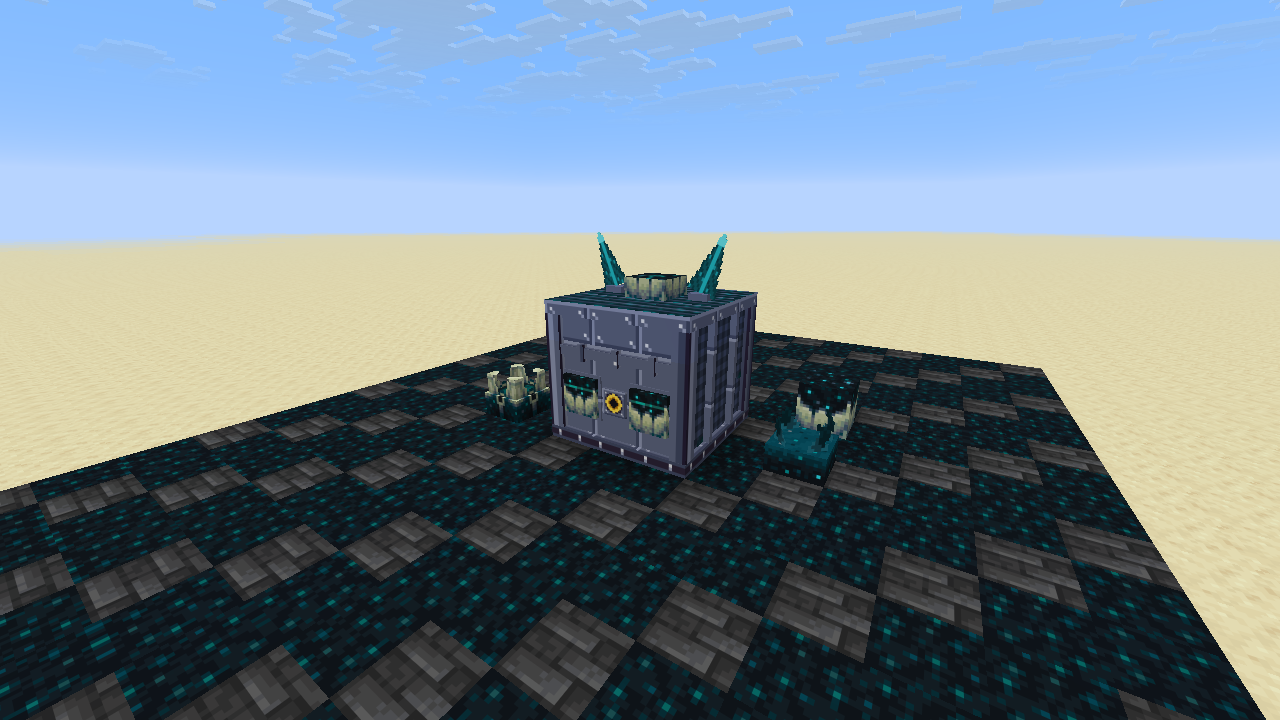
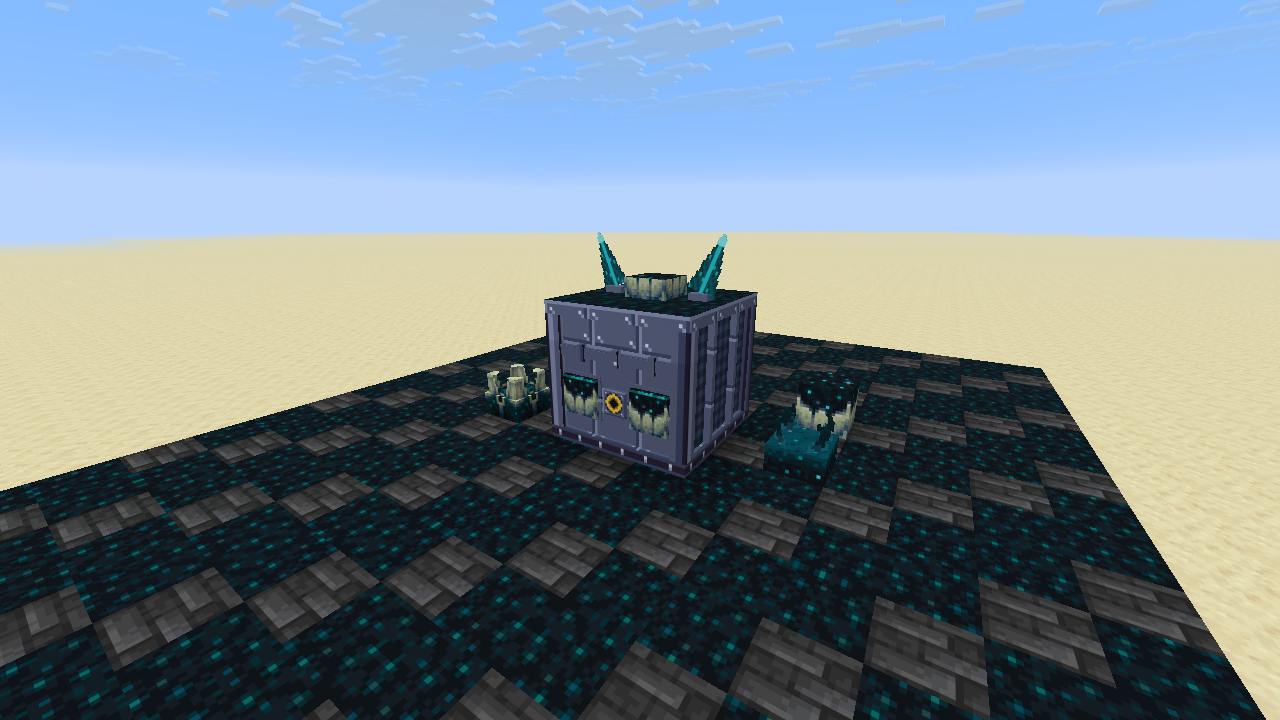
Echo Chamber: no square on the dish, and a sculk roof
The little square in the middle of the front dish is gone; its glowing heart is now
part of the dish's texture, breathing with the wave. The whole roof is covered in
vanilla sculk instead of the grate.

Claude-Session: https://claude.ai/code/session_012iurxobutw9xMP3SqHHLFE

diff --git a/tools/sheep/generate_textures.py b/tools/sheep/generate_textures.py
@@ -4181,7 +4181,7 @@ def generate_thermal_reaction_chamber_gui():
 # ---------------------------------------------------------------------------
 # Echo Chamber (WIP preview): a 3x3x3 machine in the blue-steel casing, lined with sculk. A big resonator dish on the
 # front whose rings pulse outward from a glowing heart, egg-crate sound-dampening foam on the side walls with sculk
-# creeping over some of it, a power port and two bays of sculk catalysts at the back, and on the roof a catalyst dome
+# creeping over some of it, a power port and two bays of sculk catalysts at the back, and a sculk-covered roof with a catalyst dome
 # between two big sculk fronds, the Warden sheep's "ears". The model is built by generate_echo_chamber_model.py; these
 # are its textures. Wall textures tile, one per block face.
 # ---------------------------------------------------------------------------
@@ -4245,6 +4245,15 @@ def _echo_dish(f, frames):
             elif d > 0.9:
                 c = mix(c, SCULK[3], (d - 0.9) / 0.1 * 0.6)
             img.putpixel((x, y), c)
+    # The glowing heart in the middle, breathing in and out with the wave.
+    glow = 0.5 + 0.5 * math.cos(2 * math.pi * phase)
+    for y in range(32):
+        for x in range(32):
+            r = math.hypot(x - 15.5, y - 15.5)
+            if r < 3.6:
+                img.putpixel((x, y), mix(SCULK[4], SCULK[5], max(0.0, 1 - r / 3.6) * (0.4 + 0.6 * glow)))
+            elif r < 4.6:
+                img.putpixel((x, y), mix(SCULK[2], SCULK[3], glow))
     for a in range(0, 360, 6):  # the rim
         x, y = 15.5 + 15.2 * math.cos(math.radians(a)), 15.5 + 15.2 * math.sin(math.radians(a))
         img.putpixel((int(round(x)), int(round(y))), CARTOON["S"])
@@ -4265,19 +4274,6 @@ def generate_echo_chamber():
         patched.save(out(base + "foam_sculk_%d.png" % i))
 
     _echo_animated(base, "dish", 16, 2, lambda f: _echo_dish(f, 16))
-
-    def heart(f):
-        img = Image.new("RGBA", (16, 16), SCULK[1])
-        glow = 0.5 + 0.5 * math.sin(2 * math.pi * f / 8)
-        for y in range(16):
-            for x in range(16):
-                r = math.hypot(x - 7.5, y - 7.5)
-                if r < 7.5:
-                    img.putpixel((x, y), mix(SCULK[3], SCULK[5], max(0.0, 1 - r / 7.5) * (0.5 + 0.5 * glow)))
-                if r >= 6.8:
-                    img.putpixel((x, y), CARTOON["O"])
-        return img
-    _echo_animated(base, "heart", 8, 3, heart)
 
     # Casing plate: plain metal panels with a seam round each block and rivets in the corners.
     plate = Image.new("RGBA", (16, 16), CARTOON["M"])
@@ -4310,19 +4306,6 @@ def generate_echo_chamber():
                 c = CARTOON["B"] if y == 13 else CARTOON["b"]
             band.putpixel((x, y), c)
     band.save(out(base + "band.png"))
-
-    # Roof: sculk under a grate of casing bars, glowing where vibrations have reached it.
-    grate = Image.new("RGBA", (16, 16))
-    rnd = random.Random(11)
-    for y in range(16):
-        for x in range(16):
-            c = SCULK[0] if (x + y) % 2 else SCULK[1]
-            if rnd.random() < 0.08:
-                c = SCULK[3]
-            if y % 4 == 0:
-                c = CARTOON["S"] if y % 8 else CARTOON["M"]
-            grate.putpixel((x, y), c)
-    grate.save(out(base + "grate.png"))
 
     # Power port: a big yellow ring on a casing plate.
     port = plate.copy()

diff --git a/tools/sheep/generate_echo_chamber_model.py b/tools/sheep/generate_echo_chamber_model.py
@@ -15,10 +15,11 @@ import os
 ROOT = os.path.join(os.path.dirname(__file__), "..", "..", "src", "main", "resources", "assets", "barelyfunctionalcontraptions")
 NS = "barelyfunctionalcontraptions"
 TEX = {name: f"{NS}:block/echo_chamber/{name}" for name in (
-    "band", "bottom", "dish", "ear", "foam", "foam_sculk_0", "foam_sculk_1", "foam_sculk_2", "grate", "heart", "pillar",
-    "plate", "port", "trim")}
+    "band", "bottom", "dish", "ear", "foam", "foam_sculk_0", "foam_sculk_1", "foam_sculk_2", "pillar", "plate", "port",
+    "trim")}
 TEX["catalyst_side"] = "minecraft:block/sculk_catalyst_side_bloom"
 TEX["catalyst_top"] = "minecraft:block/sculk_catalyst_top_bloom"
+TEX["sculk"] = "minecraft:block/sculk"  # the whole roof
 TEX["particle"] = TEX["plate"]
 
 SIDES = ("north", "south", "east", "west")
@@ -95,7 +96,7 @@ def faces(tex, which=ALL, **overrides):
 # ---- The machine ----
 # Plinth and roof band: the dark bolted rail (the bottom rows of "band").
 box([0, 0, 0], [48, 4, 48], faces("band", SIDES, up="plate", down="bottom"))
-box([0, 40, 0], [48, 44, 48], faces("band", SIDES, up="grate", down="plate"), {"y": (28, 16)})
+box([0, 40, 0], [48, 44, 48], faces("band", SIDES, up="sculk", down="plate"), {"y": (28, 16)})
 # Corner pillars.
 for x0 in (0, 43):
     for z0 in (0, 43):
@@ -115,11 +116,10 @@ for x0, x1 in ((0, 2), (46, 48)):
     for z in (15, 31):
         box([x0, 4, z], [x1, 40, z + 2], faces("trim", ("north", "south", "east", "west")))
 
-# Front: the resonator dish, sunk in a bezel, with its glowing heart in the middle.
+# Front: the resonator dish, sunk in a bezel; its glowing heart is part of its texture.
 for fr, to in (([6, 38, 0], [42, 40, 2]), ([6, 4, 0], [42, 6, 2]), ([6, 6, 0], [8, 38, 2]), ([40, 6, 0], [42, 38, 2])):
     box(fr, to, faces("trim", ("north", "east", "west", "up", "down")))
 box([8, 6, 1], [40, 38, 2], {"north": "dish"}, {"x": (8, 32), "y": (6, 32)})
-box([20, 18, 0], [28, 26, 1], faces("trim", ("east", "west", "up", "down"), north="heart"), {"x": (20, 8), "y": (18, 8)})
 
 # Back: a power port between two bays of sculk catalysts plugged into the wall, and a conduit across above them.
 box([20, 12, 46], [28, 20, 47], faces("trim", ("east", "west", "up", "down"), south="port"), {"x": (20, 8), "y": (12, 8)})
@@ -131,7 +131,7 @@ box([5, 28, 46], [43, 31, 47.5], faces("trim", ("south", "east", "west", "up", "
 for x in (12, 24, 36):  # its brackets
     box([x, 27, 45.5], [x + 2, 32, 48], faces("pillar", ("south", "east", "west", "up", "down")))
 
-# Roof: a big sculk catalyst dome, and two sculk fronds leaning outwards like the Warden sheep's ears.
+# Roof: covered in sculk, with a big sculk catalyst dome and two sculk fronds leaning outwards like the Warden sheep's ears.
 box([17, 44, 17], [31, 50, 31], faces("catalyst_side", SIDES, up="catalyst_top"), {"x": (17, 14), "y": (44, 14), "z": (17, 14)})
 for x, lean in ((9, 22.5), (39, -22.5)):
     box([x - 3, 44, 22], [x + 3, 46, 26], faces("trim", SIDES + ("up",)))

diff --git a/src/main/java/com/jax3/barelyfunctionalcontraptions/sheep/blocks/EchoChamberBlock.java b/src/main/java/com/jax3/barelyfunctionalcontraptions/sheep/blocks/EchoChamberBlock.java
@@ -31,7 +31,7 @@ import org.jspecify.annotations.Nullable;
  * Work in progress: the planned Echo Chamber, so far only its model. A 3x3x3 machine in the blue-steel casing, lined
  * with sculk: a big resonator dish on the front whose rings pulse outward from a glowing heart, egg-crate
  * sound-dampening foam on the side walls with sculk creeping over it, a power port and two bays of sculk catalysts at
- * the back, and on the roof a catalyst dome between two big sculk fronds, the Warden sheep's "ears", which now and then
+ * the back, and a sculk-covered roof with a catalyst dome between two big sculk fronds, the Warden sheep's "ears", which now and then
  * give off a pop of sculk charge. It does nothing yet; it's registered in development builds only.
  *
  * <p>It's 27 blocks, as a bed is two. {@link #FACING} is the way its front faces; {@link #PART} says which column

diff --git a/docs/REFERENCE.md b/docs/REFERENCE.md
@@ -73,7 +73,7 @@ Craft a **Contraptions Manual** (a book and a Functional Machine Block) and righ
 - **Production:** infusing sheep, the themed sheep, the Infusion Altar, breeding stats, the Powered Furnace, the Snow Sheep Chiller, the Mechanical Separator and Automatic Shears, and the Fluid Reservoir.
 - **Utility:** getting started, the wrench and its links, Woollen Armour and the Muffled effect, and data packs and commands.
 - **Recipes:** built from the game itself, so it matches any data-pack or modpack changes. *Machines* and *Parts, Tools and Armour* show every crafting recipe of the mod as a 3x3 grid; *Infusion* shows what each sheep is fed and the wool it grows; *Infusion Altar* shows the catalysts round the feeding item, with the tier and power; *Mechanical Separator* shows what every wool separates into, with the power and time; *Wool Bales* shows packing, unpacking and what every bale separates into. Ingredients that take any of several items cycle through them, and hovering over an item shows its tooltip.
-- **WIP:** work-in-progress features, written up here as they arrive. For now it holds the planned late-game generators that need upkeep: *Hume Field Generator*, *Echo Chamber* (a Warden sheep in a sculk room), *Lightning Array* and *Fleece Fusion*, and the *Quantum Sheep*, which blinks in and out of existence, changes its wool type and drops random resource wool. None of them is in the game yet. The Hume Field Generator has a first model, a 2x2 machine two and a half blocks tall: in development builds (`runClient`) it can be placed with `/give @s barelyfunctionalcontraptions:hume_field_generator` to look at. It fills the 2x2x3 space east, south and above where it's placed (and won't place if any of it is taken), breaking any part removes the whole machine, and it does nothing yet. The Echo Chamber has a first model too: a 3x3x3 machine in the machines' blue-steel casing, lined with sculk. It has a big resonator dish on the front whose rings pulse outward from a glowing heart, egg-crate sound-dampening foam on the side walls between baffle ribs, with sculk creeping over some of it, a power port and two bays of sculk catalysts at the back, and on the roof a catalyst dome between two big sculk fronds like the Warden sheep's ears. In development builds it can be placed with `/give @s barelyfunctionalcontraptions:echo_chamber`: the block you place is its front middle one, it faces you, it fills the 3x3x3 space behind and above (and won't place if any of it is taken), breaking any part removes the whole machine, and it does nothing yet. Released jars don't include either of them.
+- **WIP:** work-in-progress features, written up here as they arrive. For now it holds the planned late-game generators that need upkeep: *Hume Field Generator*, *Echo Chamber* (a Warden sheep in a sculk room), *Lightning Array* and *Fleece Fusion*, and the *Quantum Sheep*, which blinks in and out of existence, changes its wool type and drops random resource wool. None of them is in the game yet. The Hume Field Generator has a first model, a 2x2 machine two and a half blocks tall: in development builds (`runClient`) it can be placed with `/give @s barelyfunctionalcontraptions:hume_field_generator` to look at. It fills the 2x2x3 space east, south and above where it's placed (and won't place if any of it is taken), breaking any part removes the whole machine, and it does nothing yet. The Echo Chamber has a first model too: a 3x3x3 machine in the machines' blue-steel casing, lined with sculk. It has a big resonator dish on the front whose rings pulse outward from a glowing heart, egg-crate sound-dampening foam on the side walls between baffle ribs, with sculk creeping over some of it, a power port and two bays of sculk catalysts at the back, and a roof covered in sculk, with a catalyst dome between two big sculk fronds like the Warden sheep's ears. In development builds it can be placed with `/give @s barelyfunctionalcontraptions:echo_chamber`: the block you place is its front middle one, it faces you, it fills the 3x3x3 space behind and above (and won't place if any of it is taken), breaking any part removes the whole machine, and it does nothing yet. Released jars don't include either of them.
 
   | Hume Field Generator (WIP model) | Close up |
   |---|---|
@@ -81,7 +81,7 @@ Craft a **Contraptions Manual** (a book and a Functional Machine Block) and righ
 
   | Echo Chamber (WIP model) | From the back |
   |---|---|
-  | ![The 3x3x3 Echo Chamber on a sculk floor beside a Warden sheep: a blue-steel machine whose front is a big glowing resonator dish, with two cyan sculk fronds and a catalyst dome on the roof](screenshots/wip_echo_chamber_front.png) | ![The back of the Echo Chamber: a yellow power port between two sculk catalysts, a conduit above them, and foam side walls between baffle ribs](screenshots/wip_echo_chamber_back.png) |
+  | ![The 3x3x3 Echo Chamber on a sculk floor beside a Warden sheep: a blue-steel machine whose front is a big glowing resonator dish, with two cyan sculk fronds and a catalyst dome on its sculk roof](screenshots/wip_echo_chamber_front.png) | ![The back of the Echo Chamber: a yellow power port between two sculk catalysts, a conduit above them, and foam side walls between baffle ribs](screenshots/wip_echo_chamber_back.png) |
 
 
   A resource pack's guide file puts a chapter here with `"tab": "wip"`, and can give it a `"fallback_icon"` to show when its `"icon"` item isn't in the game.
